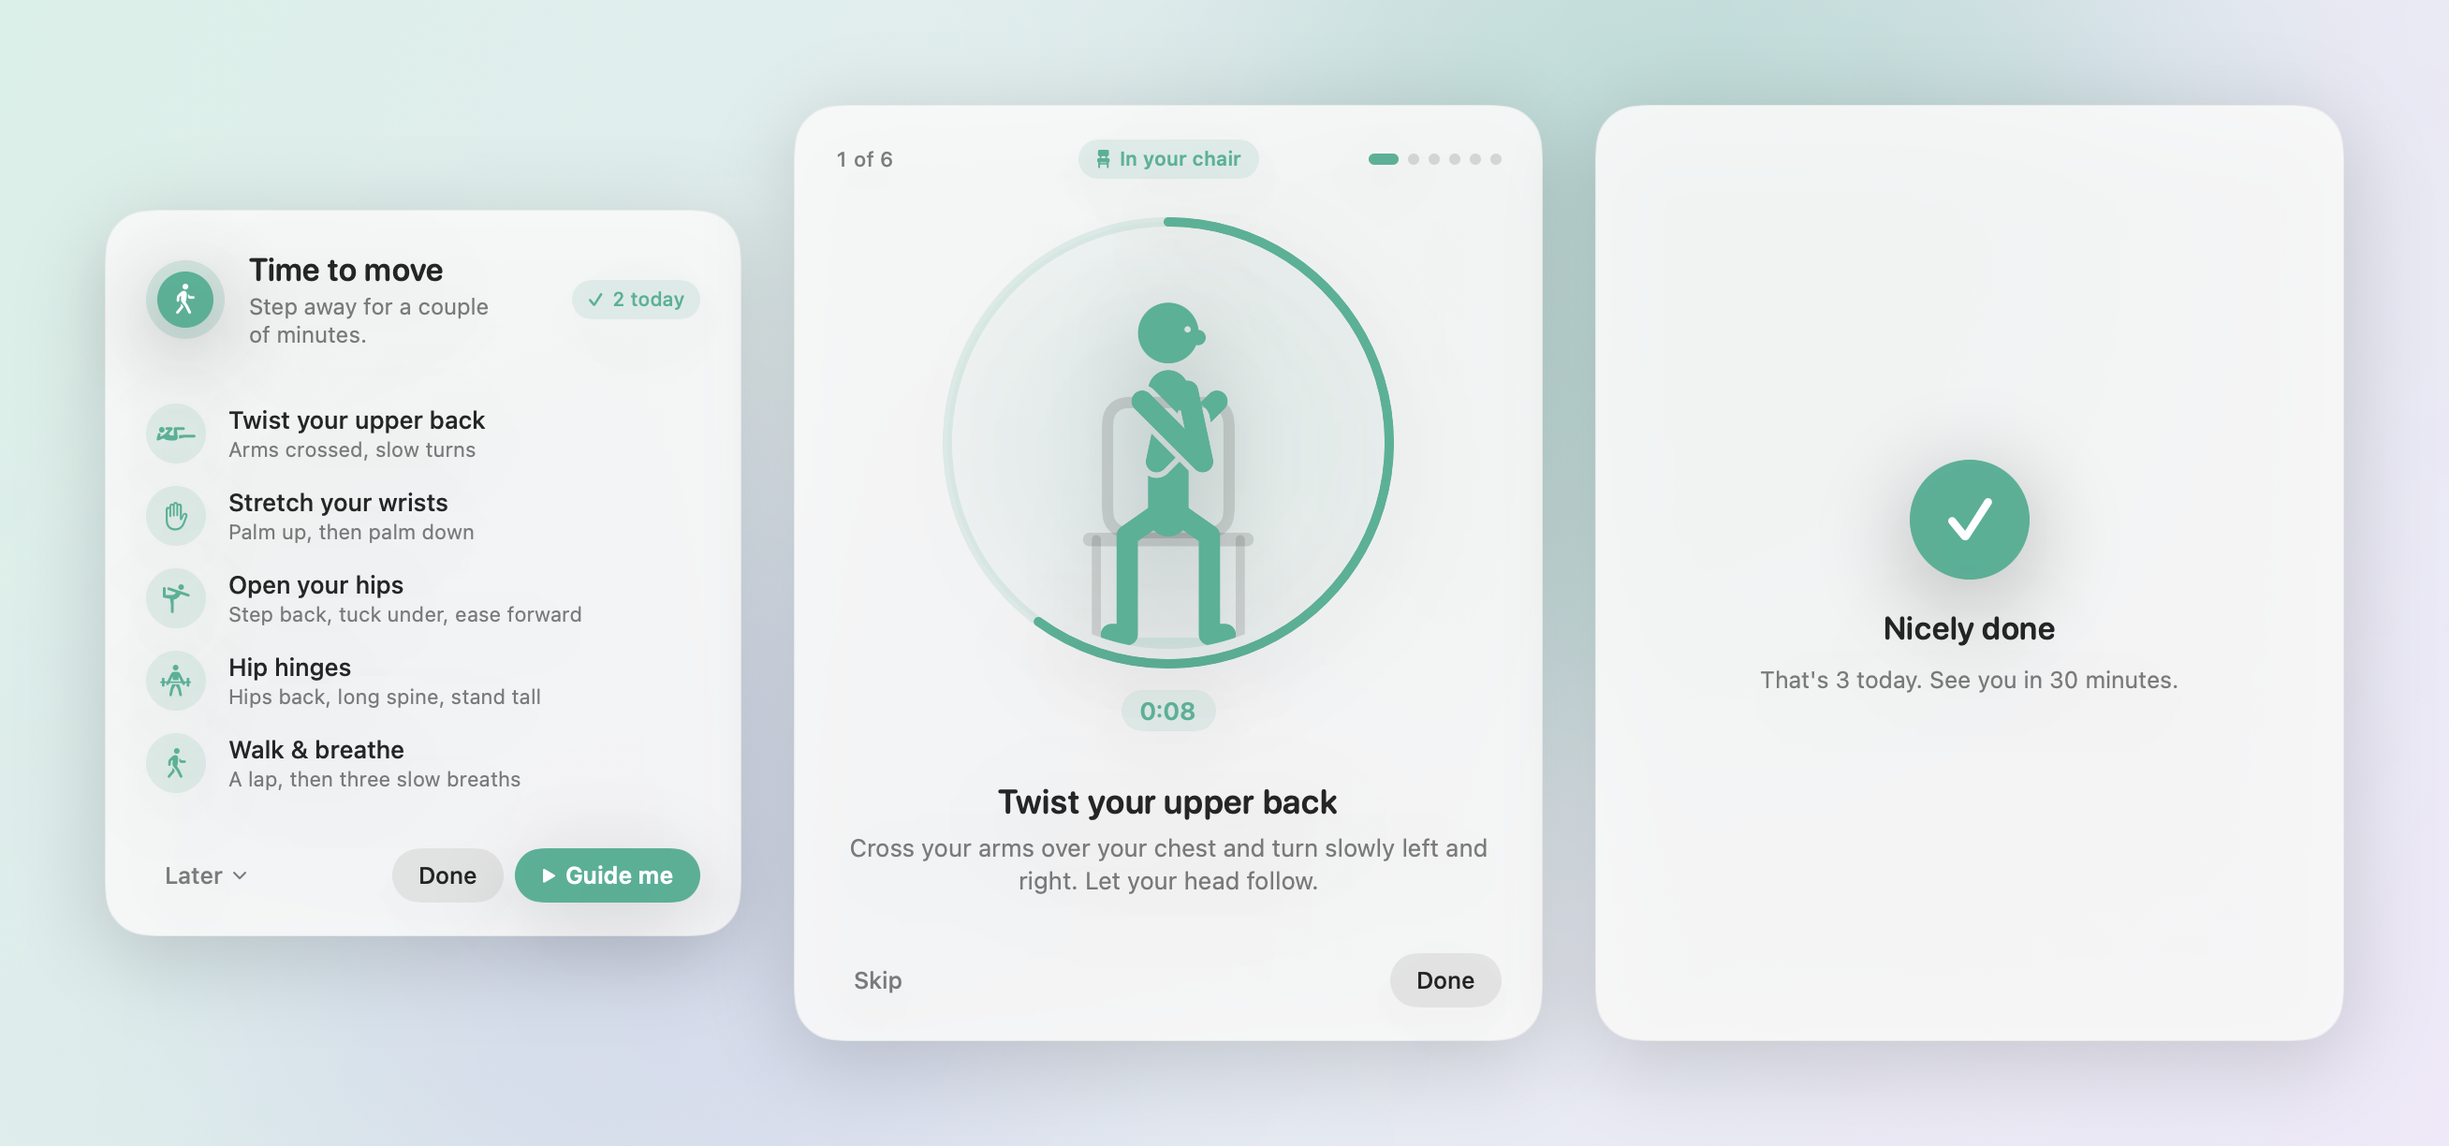
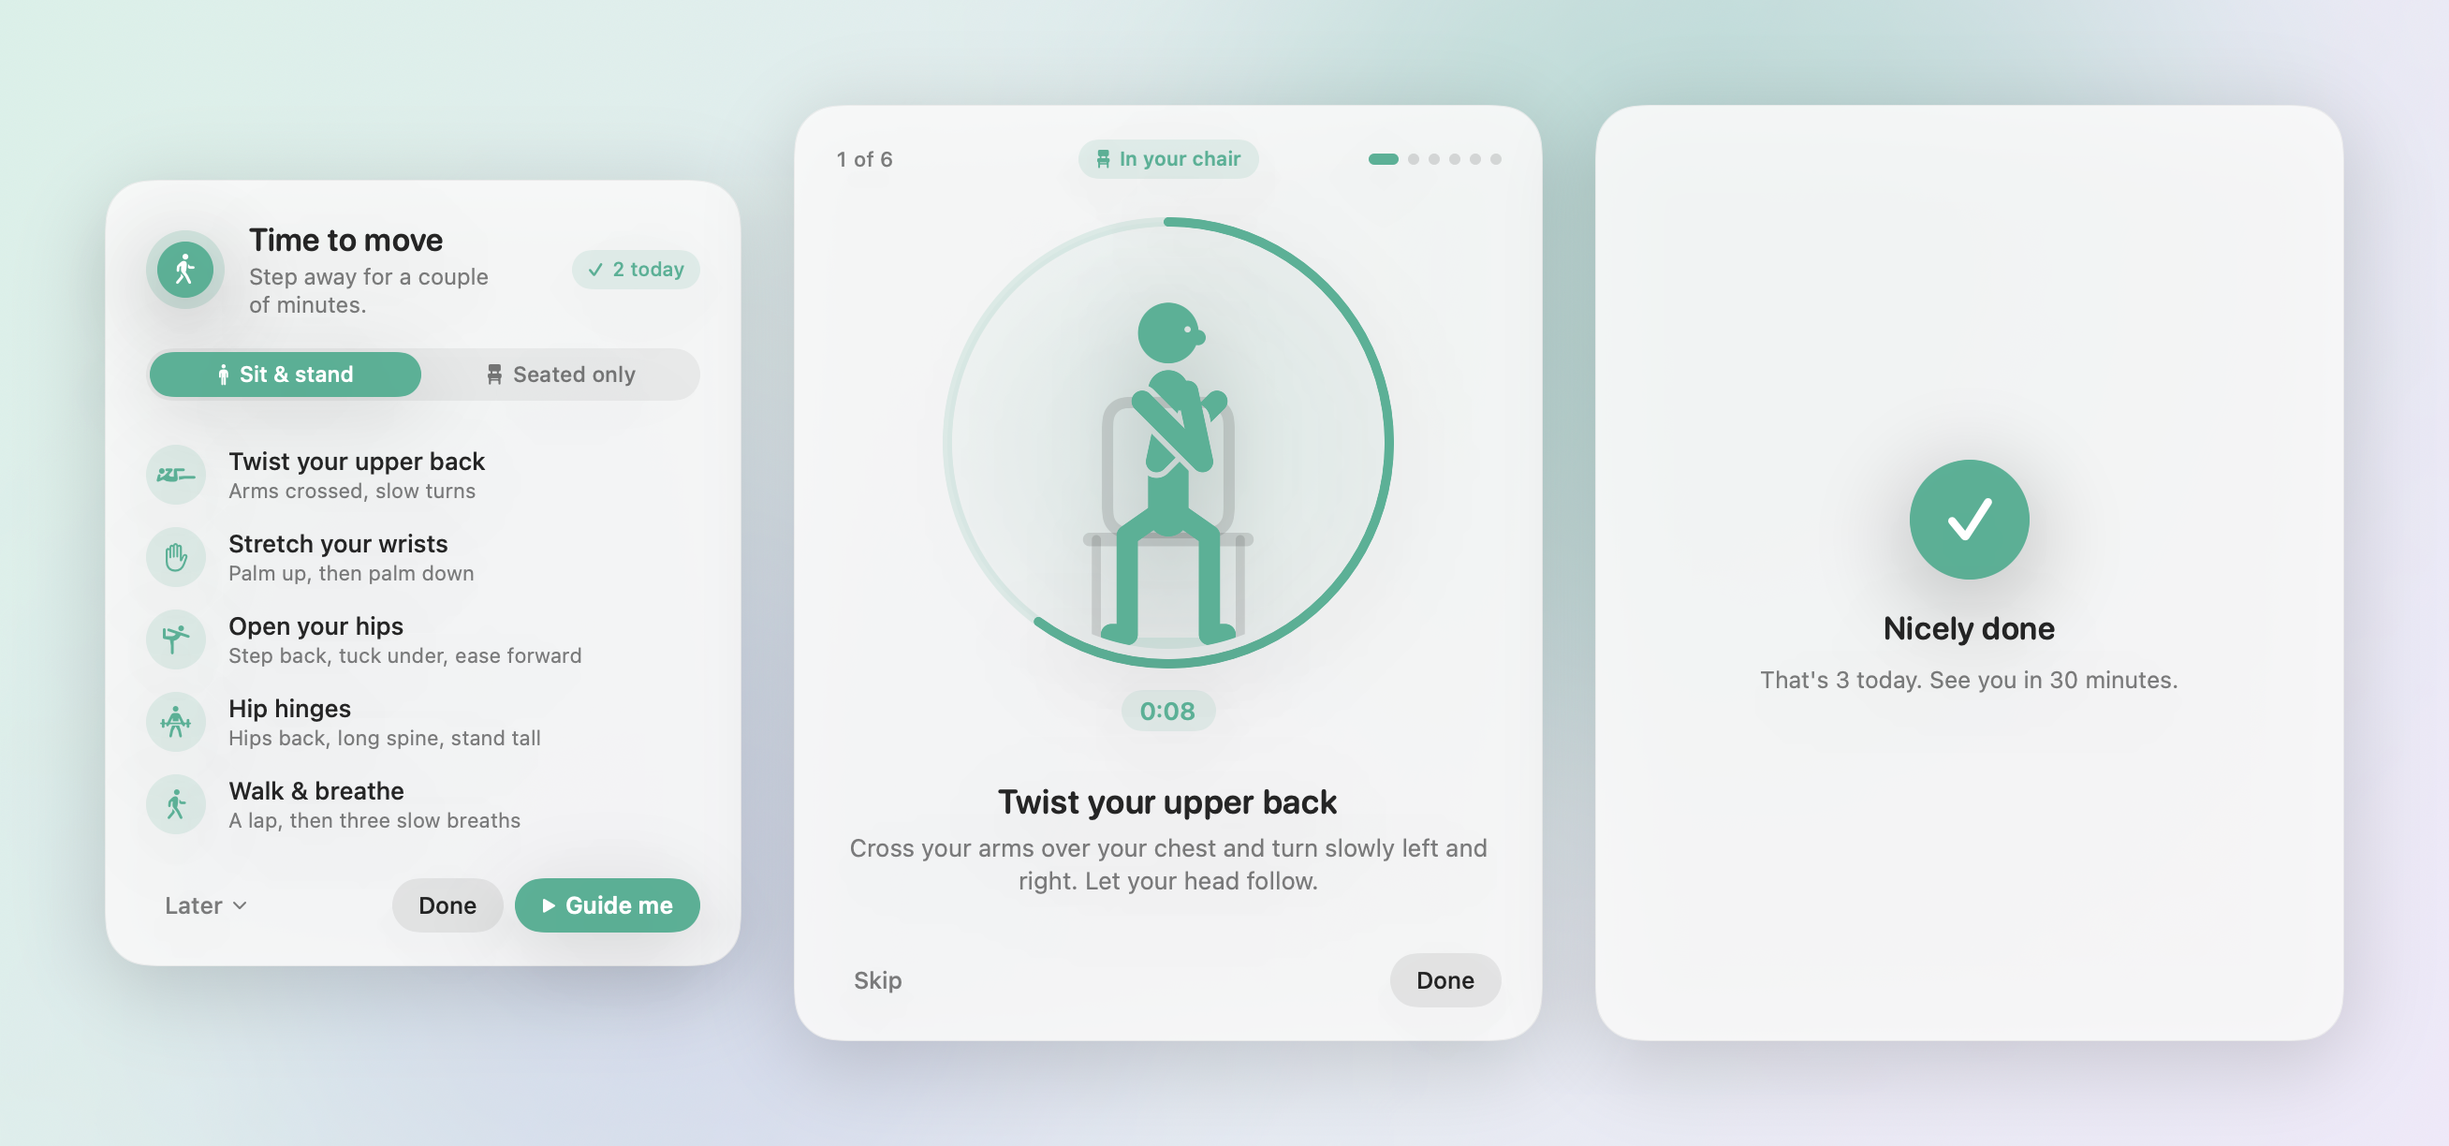
Let the guided routine stay seated
Adds a "Sit & stand / Seated only" choice to the reminder card, remembered
between breaks, for when you can't get up (say, at a table with colleagues).
Seated only swaps in three rotating 2-minute chair routines, with new animated
leg and back moves: heel & toe lifts, leg extensions, a seated march, and
round & arch.

Changed region(s): [[0.031, 0.1552, 0.3096, 0.8693], [0.2477, 0.2173, 0.2787, 0.2794]]

diff --git a/Sources/Move/Choreography.swift b/Sources/Move/Choreography.swift
@@ -5,6 +5,7 @@ enum Motion {
     case standTall, shoulderRolls, neckTurns, calfRaises, walk
     case sideBend, chestOpener, neckTilts, sitToStand
     case twist, wristStretch, hipOpener, hipHinge
+    case legExtensions, heelToeLifts, seatedMarch, catCow
     case standUp
 }
 
@@ -105,7 +106,7 @@ struct Choreography {
     var zoom: Double = 1            // closer framing for small movements (neck, shoulders, wrists)
     var focus: Double = 94          // the height, in figure units, that sits at the middle of the frame
     var offsetX: Double = 0         // nudges figures that reach to one side back toward the middle
-    var anchorHips = false          // keep the hips still instead of the feet (walking on a moving floor)
+    var hipsX: Double?              // pin the hips here instead of keeping the feet still (walking, or legs moving in a chair)
     var groundSpeed: Double = 0     // figure units per second the floor scrolls by
     var seated = false              // sitting and facing us, so the thighs point at the viewer
     var prop: Prop?
@@ -206,7 +207,7 @@ extension Motion {
                 $0.legR = Limb(2, -2); $0.legL = Limb(12, -55, 12)
                 $0.armR = Limb(0, 14); $0.armL = Limb(0, 14)
             }
-            return Choreography(facing: .side, anchorHips: true, groundSpeed: 120, keys: [
+            return Choreography(facing: .side, hipsX: 0, groundSpeed: 120, keys: [
                 Key(contact, move: 0.3, flow: true),
                 Key(passing, move: 0.3, flow: true),
                 Key(contact.mirrored, move: 0.3, flow: true),
@@ -320,8 +321,57 @@ extension Motion {
                 Key(stand, move: 1.4, hold: 0.4),
                 Key(hinge, move: 1.5, hold: 0.7),
             ])
+
+        case .legExtensions:
+            let sit = Self.feetFlat
+            let straight = sit.with { $0.legR = Limb(88, -6, -70) }
+            return Choreography(facing: .side, zoom: 1.2, focus: 70, hipsX: Self.seatX, prop: .chair, keys: [
+                Key(sit, move: 1, hold: 0.4),
+                Key(straight, move: 1.2, hold: 1.6),
+                Key(sit, move: 1.1, hold: 0.4),
+                Key(straight.mirrored, move: 1.2, hold: 1.6),
+            ])
+
+        case .heelToeLifts:
+            // Heels stay down while the toes lift, then the toes stay down while the heels lift.
+            let flat = Self.feetFlat
+            let toesUp = flat.with { $0.legs = Limb(90, -90, -32) }
+            let heelsUp = flat.with { $0.legs = Limb(100, -112, 38) }
+            return Choreography(facing: .side, zoom: 1.35, focus: 64, offsetX: 12, hipsX: Self.seatX, prop: .chair, keys: [
+                Key(flat, move: 0.8, hold: 0.3),
+                Key(toesUp, move: 0.8, hold: 0.6),
+                Key(flat, move: 0.7, hold: 0.2),
+                Key(heelsUp, move: 0.8, hold: 0.6),
+            ])
+
+        case .seatedMarch:
+            let sit = Self.feetFlat
+            // The opposite arm swings forward, as in a walk.
+            let lift = sit.with { $0.legR = Limb(126, -126, 12); $0.armR = Limb(-24, 88); $0.armL = Limb(36, 54) }
+            return Choreography(facing: .side, zoom: 1.2, focus: 70, hipsX: Self.seatX, prop: .chair, keys: [
+                Key(sit, move: 0.55, hold: 0.1),
+                Key(lift, move: 0.6, hold: 0.25),
+                Key(sit, move: 0.55, hold: 0.1),
+                Key(lift.mirrored, move: 0.6, hold: 0.25),
+            ])
+
+        case .catCow:
+            let sit = Self.feetFlat
+            let round = sit.with { $0.lean = 10; $0.bend = 16; $0.nod = -0.9; $0.shrugX = 5 }
+            let arch = sit.with { $0.lean = 5; $0.bend = -20; $0.nod = 1; $0.shrugX = -7 }
+            return Choreography(facing: .side, zoom: 1.3, focus: 90, hipsX: Self.seatX, prop: .chair, keys: [
+                Key(sit, move: 1, hold: 0.3),
+                Key(round, move: 1.8, hold: 1),
+                Key(sit, move: 1.3),
+                Key(arch, move: 1.8, hold: 1),
+            ])
         }
     }
+
+    /// Sitting in profile with both feet flat, so the floor stays put while one leg moves.
+    private static let feetFlat = Pose.seated.with { $0.legs = Limb(90, -90) }
+    /// Where the hips sit on the chair in profile, for movements that pin them while the feet move.
+    private static let seatX = -45.0
 
     /// Getting out of a chair: sitting, nose over toes, standing.
     private static var rise: (seated: Pose, hinge: Pose, stand: Pose) {

diff --git a/Sources/Move/Movement.swift b/Sources/Move/Movement.swift
@@ -21,8 +21,13 @@ struct Movement: Identifiable, Equatable {
     /// of the time to walking. Between them they move the spine every way (back, side, twist).
     static let routines: [[Movement]] = [standAndStretch, reachAndRise, twistAndHinge]
 
-    static func routine(forBreak index: Int) -> [Movement] {
-        routines[index % routines.count]
+    /// For when you can't get up, say at a table with colleagues: about 2 minutes, all in your chair, small enough
+    /// to do without fuss. The legs still get moving, through lifts, marches and extensions under the desk.
+    static let seatedRoutines: [[Movement]] = [loosenUp, marchAndReach, twistAndTap]
+
+    static func routine(forBreak index: Int, seated: Bool = false) -> [Movement] {
+        let routines = seated ? seatedRoutines : routines
+        return routines[index % routines.count]
     }
 
     private static func standUp(id: Int) -> Movement {
@@ -166,4 +171,78 @@ struct Movement: Identifiable, Equatable {
                  posture: .standing,
                  seconds: 90),
     ]
+
+    // MARK: Seated only
+
+    private static let loosenUp: [Movement] = [
+        standAndStretch[0],
+        standAndStretch[1],
+        roundAndArch(id: 2),
+        heelToeLifts(id: 3),
+        legExtensions(id: 4),
+    ]
+
+    private static let marchAndReach: [Movement] = [
+        reachAndRise[0],
+        reachAndRise[1],
+        seatedMarch(id: 2),
+        legExtensions(id: 3),
+        roundAndArch(id: 4),
+    ]
+
+    private static let twistAndTap: [Movement] = [
+        twistAndHinge[0],
+        twistAndHinge[1],
+        standAndStretch[0].with(id: 2),
+        heelToeLifts(id: 3),
+        seatedMarch(id: 4),
+    ]
+
+    private static func roundAndArch(id: Int) -> Movement {
+        Movement(id: id,
+                 title: "Round & arch your back",
+                 hint: "Slowly, with your breath",
+                 cue: "Hands on your thighs. Round your back as you breathe out, then lift your chest as you breathe in.",
+                 symbol: "figure.yoga",
+                 motion: .catCow,
+                 posture: .seated,
+                 seconds: 25)
+    }
+
+    private static func heelToeLifts(id: Int) -> Movement {
+        Movement(id: id,
+                 title: "Heel & toe lifts",
+                 hint: "Toes up, then heels up",
+                 cue: "Feet flat. Lift your toes, then press down through them to lift your heels. Keep it going.",
+                 symbol: "shoeprints.fill",
+                 motion: .heelToeLifts,
+                 posture: .seated,
+                 seconds: 25)
+    }
+
+    private static func legExtensions(id: Int) -> Movement {
+        Movement(id: id,
+                 title: "Straighten your legs",
+                 hint: "One at a time, toes toward you",
+                 cue: "Straighten one leg out under the desk, toes toward you, and hold. Lower it and switch.",
+                 symbol: "figure.seated.side",
+                 motion: .legExtensions,
+                 posture: .seated,
+                 seconds: 30)
+    }
+
+    private static func seatedMarch(id: Int) -> Movement {
+        Movement(id: id,
+                 title: "March in your chair",
+                 hint: "Lift one knee, then the other",
+                 cue: "Sit tall and lift one knee, then the other, like marching in place. Keep a steady rhythm.",
+                 symbol: "figure.walk.motion",
+                 motion: .seatedMarch,
+                 posture: .seated,
+                 seconds: 30)
+    }
+
+    private func with(id: Int) -> Movement {
+        Movement(id: id, title: title, hint: hint, cue: cue, symbol: symbol, motion: motion, posture: posture, seconds: seconds)
+    }
 }

diff --git a/Sources/Move/ReminderView.swift b/Sources/Move/ReminderView.swift
@@ -62,9 +62,10 @@ private struct PromptView: View {
                 VStack(alignment: .leading, spacing: 2) {
                     Text("Time to move")
                         .font(.system(size: 17, weight: .semibold, design: .rounded))
-                    Text("Step away for a couple of minutes.")
+                    Text(session.staySeated ? "A couple of minutes in your chair." : "Step away for a couple of minutes.")
                         .font(.system(size: 12))
                         .foregroundStyle(.secondary)
+                        .contentTransition(.opacity)
                 }
                 Spacer(minLength: 0)
                 if session.breaksToday > 0 {
@@ -72,11 +73,16 @@ private struct PromptView: View {
                 }
             }
 
-            Spacer(minLength: 18)
+            PostureChoice(session: session)
+                .padding(.top, 16)
+
+            Spacer(minLength: 16)
 
             VStack(alignment: .leading, spacing: 12) {
                 ForEach(session.routine.filter { !$0.isTransition }) { MovementRow(movement: $0) }
             }
+            .id(session.staySeated)
+            .transition(.opacity)
 
             Spacer(minLength: 18)
 
@@ -96,6 +102,48 @@ private struct PromptView: View {
                 .help("A gentle \(session.totalMinutesLabel) routine")
             }
         }
+    }
+}
+
+/// Whether this break gets you on your feet, or stays in your chair for when you can't get up,
+/// like at a table with colleagues. The movement list and "Guide me" follow the choice.
+private struct PostureChoice: View {
+    @ObservedObject var session: BreakSession
+    @Namespace private var selection
+
+    var body: some View {
+        HStack(spacing: 2) {
+            option("Sit & stand", symbol: "figure.stand", seated: false,
+                   help: "Starts in your chair, then gets you on your feet")
+            option("Seated only", symbol: "chair.fill", seated: true,
+                   help: "Everything in your chair, for when you can't get up")
+        }
+        .padding(2)
+        .background(Color.primary.opacity(0.06), in: Capsule())
+    }
+
+    private func option(_ title: String, symbol: String, seated: Bool, help: String) -> some View {
+        let selected = session.staySeated == seated
+        return Button {
+            withAnimation(.smooth(duration: 0.3)) { session.setStaySeated(seated) }
+        } label: {
+            HStack(spacing: 5) {
+                Image(systemName: symbol).font(.system(size: 10, weight: .semibold))
+                Text(title)
+            }
+            .font(.system(size: 11.5, weight: .medium))
+            .foregroundStyle(selected ? AnyShapeStyle(.white) : AnyShapeStyle(.secondary))
+            .frame(maxWidth: .infinity)
+            .padding(.vertical, 5)
+            .background {
+                if selected {
+                    Capsule().fill(Color.sage).matchedGeometryEffect(id: "selected", in: selection)
+                }
+            }
+            .contentShape(Capsule())
+        }
+        .buttonStyle(.plain)
+        .help(help)
     }
 }
 

diff --git a/Sources/Move/BreakSession.swift b/Sources/Move/BreakSession.swift
@@ -10,6 +10,7 @@ final class BreakSession: ObservableObject {
     @Published private(set) var elapsed: Double = 0
     @Published private(set) var breaksToday = 0
     @Published private(set) var intervalMinutes = 30
+    @Published private(set) var staySeated = false
     @Published private(set) var routine = Movement.routine(forBreak: 0)
 
     var onDone: (() -> Void)?
@@ -33,18 +34,29 @@ final class BreakSession: ObservableObject {
         elapsed = 0
         breaksToday = Settings.breaksToday
         intervalMinutes = Settings.intervalMinutes
-        routine = Movement.routine(forBreak: breaksToday)
+        staySeated = Settings.staySeated
+        routine = Movement.routine(forBreak: breaksToday, seated: staySeated)
     }
 
     /// Freezes the card in a given state, for rendering README screenshots.
-    func stage(_ phase: Phase, step: Int = 0, elapsed: Double = 0, breaksToday: Int, intervalMinutes: Int = 30) {
+    func stage(_ phase: Phase, step: Int = 0, elapsed: Double = 0, breaksToday: Int, intervalMinutes: Int = 30,
+               staySeated: Bool = false) {
         stopTimer()
         self.phase = phase
         self.stepIndex = step
         self.elapsed = elapsed
         self.breaksToday = breaksToday
         self.intervalMinutes = intervalMinutes
-        routine = Movement.routine(forBreak: phase == .finished ? breaksToday - 1 : breaksToday)
+        self.staySeated = staySeated
+        routine = Movement.routine(forBreak: phase == .finished ? breaksToday - 1 : breaksToday, seated: staySeated)
+    }
+
+    /// Picks the routine for this break: in your chair the whole time, or getting on your feet partway.
+    func setStaySeated(_ seated: Bool) {
+        guard phase == .prompt, seated != staySeated else { return }
+        Settings.staySeated = seated
+        staySeated = seated
+        routine = Movement.routine(forBreak: breaksToday, seated: seated)
     }
 
     func startGuide() {

diff --git a/Sources/Move/MovementFigure.swift b/Sources/Move/MovementFigure.swift
@@ -80,7 +80,7 @@ private struct Skeleton {
 
         // Plant the lowest foot on the floor, and keep the toes (or hips) from sliding sideways.
         let floor = legs.flatMap { $0[2...] }.map(\.y).min()! - Self.limbWidth / 2
-        let anchorX = choreography.anchorHips ? 0 : (legs[0][3].x + legs[1][3].x) / 2 - (front ? 0 : Self.foot)
+        let anchorX = choreography.hipsX.map { -$0 } ?? (legs[0][3].x + legs[1][3].x) / 2 - (front ? 0 : Self.foot)
         let offset = CGPoint(x: -anchorX, y: -floor)
         spine = spine.map { $0 + offset }
         head = head + offset

diff --git a/Sources/Move/Settings.swift b/Sources/Move/Settings.swift
@@ -19,6 +19,12 @@ enum Settings {
         set { defaults.set(newValue, forKey: "avoidMeetings") }
     }
 
+    /// Keeps the guided routine in your chair, for when you can't get up. Remembered from break to break.
+    static var staySeated: Bool {
+        get { defaults.bool(forKey: "staySeated") }
+        set { defaults.set(newValue, forKey: "staySeated") }
+    }
+
     static var chimes: Bool {
         get { defaults.object(forKey: "chimes") as? Bool ?? true }
         set { defaults.set(newValue, forKey: "chimes") }

diff --git a/Sources/Move/ReminderPanel.swift b/Sources/Move/ReminderPanel.swift
@@ -6,7 +6,7 @@ import SwiftUI
 /// When you ask to be guided, it glides to the middle of the screen and grows to show each movement.
 @MainActor
 final class ReminderPanelController {
-    static let cardSize = NSSize(width: 340, height: 388)
+    static let cardSize = NSSize(width: 340, height: 420)
     static let guideSize = NSSize(width: 400, height: 500)
 
     static func size(for phase: BreakSession.Phase) -> NSSize {

diff --git a/README.md b/README.md
@@ -62,7 +62,8 @@ Every 30 minutes, a card appears in the top-right corner. Pick one:
 
 | Button | What it does |
 | --- | --- |
-| **Guide me** | Moves the card to the middle of your screen and walks you through a routine of about 3 minutes |
+| **Sit & stand** / **Seated only** | Choose whether the routine gets you on your feet, or stays in your chair (say, at a table with colleagues). Move remembers your choice |
+| **Guide me** | Moves the card to the middle of your screen and walks you through the routine: about 3 minutes, or 2 if you're staying seated |
 | **Done** | You moved on your own. See you in 30 minutes |
 | **Later** | Snooze for 2, 5, 10, or 15 minutes |
 
@@ -87,6 +88,16 @@ Every routine starts with what you can do in your chair, then tells you when to 
 | **On your feet** | Stand tall & lean back | Open your chest | Open your hips |
 | | Calf raises | | Hip hinges |
 | | Walk around (90 s) | Take a longer walk (90 s) | Walk & breathe (90 s) |
+
+Can't get up right now? Pick **Seated only** on the card and the routine stays in your chair the whole time. These are small enough to do at a table with other people, and still get your legs moving under the desk:
+
+| Loosen up | March & reach | Twist & tap |
+| --- | --- | --- |
+| Roll & squeeze shoulders | Ease your neck | Twist your upper back |
+| Tuck & turn your neck | Reach & side bend | Stretch your wrists |
+| Round & arch your back | March in your chair | Roll & squeeze shoulders |
+| Heel & toe lifts | Straighten your legs | Heel & toe lifts |
+| Straighten your legs | Round & arch your back | March in your chair |
 
 ### 3. The menu bar
 
